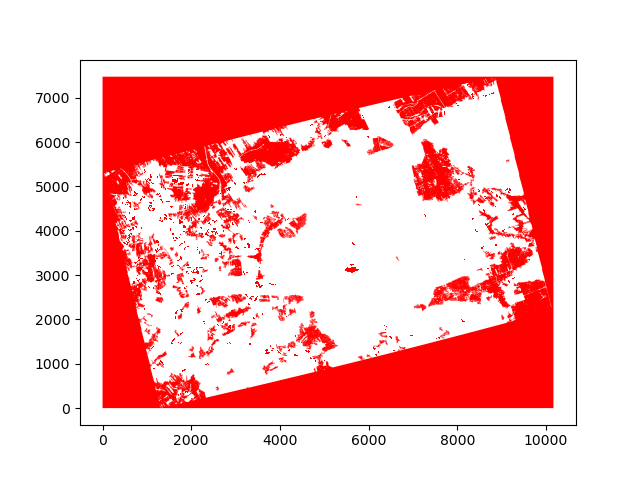
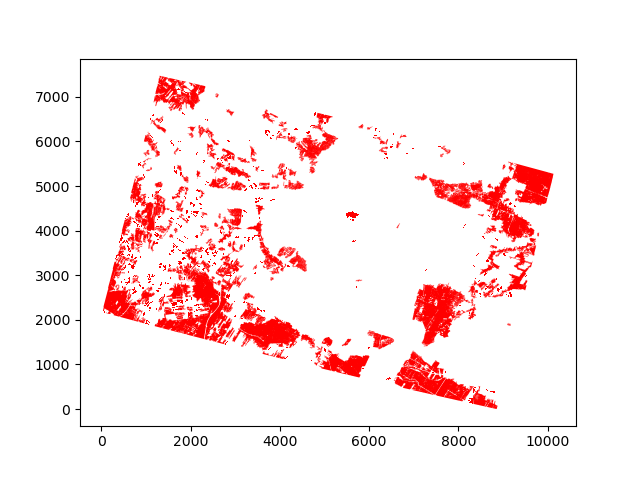
stworzenie shp z lasami

diff --git a/src/main.py b/src/main.py
@@ -24,7 +24,8 @@ nir = get_band(raster_dataset, 8)
 # plt.imshow(red_array, cmap='RdYlGn')
 # plt.show()
 
-forest_mask = red < 300
+forest_mask = (red < 300) & (red > 0)
+forest_mask = np.flipud(forest_mask)
 forest_mask = np.uint8(forest_mask)
 
 detected_forests =  segment_image_with_mask(forest_mask, forest_mask)
@@ -36,3 +37,6 @@ print(f"number of detected forests with area > 1000: {len(big_forests)}")
 big_forests.plot(column="id",color="red")
 plt.savefig("big_forests.png")
 plt.show()
+
+big_forests.set_crs(epsg=32634, inplace=True)
+big_forests.to_file("big_forests.shp", driver="ESRI Shapefile") #ląduje w afryce
